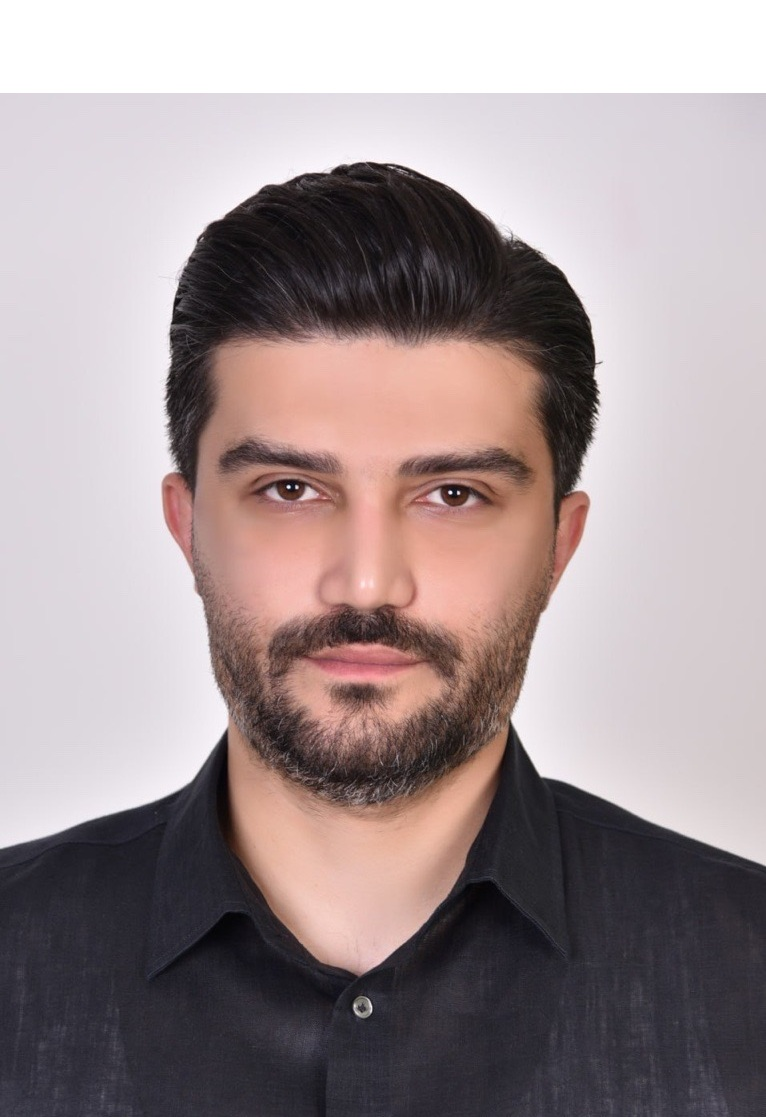
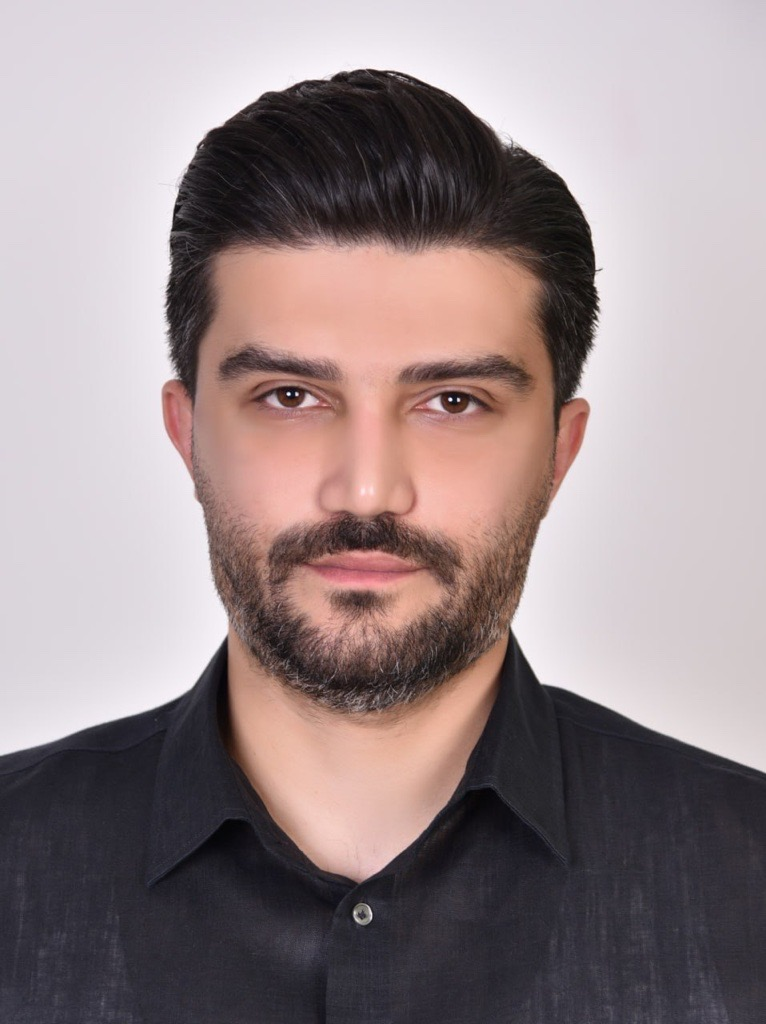
Add files via upload

diff --git a/events/revive-technical-workshop.html b/events/revive-technical-workshop.html
@@ -1,0 +1,137 @@
+<!DOCTYPE html>
+<html lang="en">
+<head>
+<meta charset="UTF-8">
+<meta name="viewport" content="width=device-width, initial-scale=1.0">
+<title>REVIVE Technical Workshop &mdash; Bridges to the Future</title>
+<meta name="description" content="Report on the REVIVE Technical Workshop, held on 23 September 2026 at the University of Southampton: keynotes, technical talks and programme.">
+<link rel="preconnect" href="https://fonts.googleapis.com">
+<link rel="preconnect" href="https://fonts.gstatic.com" crossorigin>
+<link href="https://fonts.googleapis.com/css2?family=IBM+Plex+Sans:wght@400;500;600;700&family=IBM+Plex+Serif:wght@400;500;600&family=IBM+Plex+Mono:wght@400;500;600&display=swap" rel="stylesheet">
+<link rel="stylesheet" href="../assets/css/style.css">
+</head>
+<body>
+<header class="site">
+  <div class="navbar">
+    <a class="brand" href="../index.html">
+      <img class="logo-img" src="../assets/images/logo.png" alt="Bridges to the Future logo" onerror="this.style.display='none'">
+      <span class="brandtext">Bridges to the Future <small>B2F</small></span>
+    </a>
+    <input type="checkbox" id="nav-toggle">
+    <label class="burger" for="nav-toggle"><span></span><span></span><span></span></label>
+    <nav class="links">
+      <a href="../index.html">Home</a>
+      <a href="../about.html">About</a>
+      <a href="../news.html" aria-current="page">News</a>
+      <a href="../projects.html">Research</a>
+      <a href="../people.html">People</a>
+      <a href="../publications.html">Publications</a>
+      <a href="../contact.html">Contact</a>
+    </nav>
+  </div>
+</header>
+
+<section class="pagehero">
+  <div class="wrap">
+    <p class="eyebrow">Workshop &nbsp;&middot;&nbsp; REVIVE project</p>
+    <h1>REVIVE Technical Workshop</h1>
+    <p>Researchers, infrastructure owners and industry partners on assessing, monitoring and extending the life of ageing infrastructure.</p>
+    <p class="proj-meta-row"><span>23 September 2026</span><span>8:30 &ndash; 15:30</span><span>Hartley Suite, University of Southampton</span></p>
+  </div>
+</section>
+<section>
+  <div class="wrap">
+    <p style="margin-bottom:40px;"><a class="back-link" href="../news.html#e01">&larr; Back to news &amp; events</a></p>
+    <figure class="event-figure">
+      <img src="../assets/images/events/e01-revive-workshop.jpg" alt="REVIVE: Non-destructive evaluation and service life extension of vulnerable reinforced concrete infrastructure" loading="lazy">
+    </figure>
+    <div class="profile-section">
+      <h2>About the workshop</h2>
+      <p>The REVIVE Technical Workshop took place on 23 September 2026 at the University of Southampton, hosted by Civil, Maritime and Environmental Engineering (CMEE) and organised by <a href="../people/mehdi-kashani.html">Dr Mehdi Kashani</a>. It was held as part of REVIVE (Non-destructive Evaluation and Service Life Extension of Vulnerable Reinforced Concrete Infrastructure), a Horizon Europe MSCA Staff Exchanges project coordinated by Dr Kashani and funded by the European Union.</p>
+      <p>The day brought together researchers, infrastructure owners and industry practitioners to bridge the gap between academic research and practical infrastructure management. After a welcome from the Head of CMEE, Prof Yannis Ieropoulos, and an introduction to REVIVE, three keynotes set the scene from the owner and consultant perspective: Mr Tim Kersley (Network Rail) on improved resilience by unlocking hidden truths, Mr Colin George (National Highways) on the challenges of managing ageing highway structures, and Dr Chris Mundell (AtkinsR&eacute;alis) on advances in non-destructive testing for bridges with hidden critical elements, drawing on findings from the National Highways Structures Moonshot.</p>
+      <p>The technical sessions that followed covered UKCRIC, the assessment of transfer slabs for shear, distributed optical fibre sensing for damage assessment of ageing RC structures, Bayesian approaches to damage diagnosis and structural health monitoring, satellite-based monitoring of existing bridges, data-driven bridge evaluation, smart tape for structural health monitoring, and real-time damage localisation using modal curvatures and machine learning. The day closed with remarks from Dr Kashani and tours of the lab.</p>
+      <p>Key themes: non-destructive evaluation (NDE) and structural health monitoring (SHM); artificial intelligence, data analytics and digital twins; infrastructure asset management and service life prediction.</p>
+    </div>
+    <div class="profile-section">
+      <h2>Programme</h2>
+      <ul class="programme">
+      <li class="pause"><div class="time">8:30 &ndash; 9:00</div><div class="what">Arrival and registration</div><div class="who"></div></li>
+      <li><div class="time">9:00 &ndash; 9:15</div><div class="what">Welcome and workshop introduction by Head of CMEE</div><div class="who"><strong>Prof Yannis Ieropoulos</strong>University of Southampton</div></li>
+      <li><div class="time">9:15 &ndash; 9:30</div><div class="what">Introduction to REVIVE and purpose of the workshop</div><div class="who"><strong><a href="../people/mehdi-kashani.html">Dr Mehdi Kashani</a></strong>University of Southampton</div></li>
+      <li class="keynote"><div class="time">9:30 &ndash; 10:00</div><div class="what"><span class="kn">Keynote</span>Improved resilience by unlocking hidden truths</div><div class="who"><strong>Mr Tim Kersley</strong>Network Rail</div></li>
+      <li class="keynote"><div class="time">10:00 &ndash; 10:30</div><div class="what"><span class="kn">Keynote</span>Challenges in the management of ageing highway structures</div><div class="who"><strong>Mr Colin George</strong>National Highways</div></li>
+      <li class="keynote"><div class="time">10:30 &ndash; 11:00</div><div class="what"><span class="kn">Keynote</span>Advancements in NDT for bridges with hidden critical elements &ndash; Findings from National Highways Structures Moonshot</div><div class="who"><strong>Dr Chris Mundell</strong>AtkinsR&eacute;alis</div></li>
+      <li class="pause"><div class="time">11:00 &ndash; 11:30</div><div class="what">Coffee break</div><div class="who"></div></li>
+      <li><div class="time">11:30 &ndash; 11:50</div><div class="what">UK Collaboratorium for Research on Infrastructure and Cities (UKCRIC)</div><div class="who"><strong>Prof William Powrie</strong>University of Southampton</div></li>
+      <li><div class="time">11:50 &ndash; 12:10</div><div class="what">Challenges in the structural assessment of transfer slabs for shear</div><div class="who"><strong>Prof Robert Vollum</strong>Imperial College London</div></li>
+      <li><div class="time">12:10 &ndash; 12:30</div><div class="what">Application of high-resolution distributed optical fibre in damage assessment of ageing RC structures</div><div class="who"><strong><a href="../people/saba-ghassemi.html">Ms Saba Ghassemi</a></strong>University of Southampton</div></li>
+      <li><div class="time">12:30 &ndash; 12:50</div><div class="what">Reliability assessment of damage diagnosis with Bayesian updating: current status and future directions</div><div class="who"><strong>Dr Francesca Marsili</strong>Helmut-Schmidt University</div></li>
+      <li><div class="time">12:50 &ndash; 13:10</div><div class="what">Structural monitoring of existing bridges via satellite-based techniques</div><div class="who"><strong>Dr Fabio Di Carlo</strong>Universit&agrave; di Roma Tor Vergata</div></li>
+      <li class="pause"><div class="time">13:10 &ndash; 14:10</div><div class="what">Lunch</div><div class="who"></div></li>
+      <li><div class="time">14:10 &ndash; 14:30</div><div class="what">Structural health monitoring with Bayesian inversion and probabilistic models: tools, limitations, and challenges</div><div class="who"><strong>Dr Noemi Friedman</strong>SZTAKI</div></li>
+      <li><div class="time">14:30 &ndash; 14:50</div><div class="what">Data-driven evaluation of existing bridges: methods and applications at ZAG</div><div class="who"><strong>Dr Andrej An&zcaron;lin</strong>ZAG</div></li>
+      <li><div class="time">14:50 &ndash; 15:10</div><div class="what">Smart tape for structural health monitoring</div><div class="who"><strong>Dr Meisam Jalalvand</strong>University of Southampton</div></li>
+      <li><div class="time">15:10 &ndash; 15:30</div><div class="what">Real-time structural damage localisation using modal curvatures based on a machine learning algorithm</div><div class="who"><strong><a href="../people/masoud-mohandes.html">Dr Masoud Mohandes</a></strong>University of Southampton</div></li>
+      <li><div class="time">15:30</div><div class="what">Closing remarks and lab tours</div><div class="who"><strong><a href="../people/mehdi-kashani.html">Dr Mehdi Kashani</a></strong></div></li>
+      </ul>
+    </div>
+    <div class="profile-section">
+      <h2>REVIVE consortium</h2>
+      <ul class="partner-list"><li>University of Bristol</li><li>TU Delft</li><li>University of Ljubljana</li><li>Universit&agrave; di Roma Tor Vergata</li><li>Helmut Schmidt University</li><li>HUN-REN SZTAKI</li><li>ZAG</li><li>SVTI ASIT</li><li>AtkinsR&eacute;alis</li><li>TIMEZYX Digital Twin</li><li>SHMnext</li></ul>
+      <p>REVIVE is funded by the European Union under Horizon Europe (MSCA Staff Exchanges). <a href="https://cordis.europa.eu/project/id/101299364" target="_blank" rel="noopener" style="color:var(--rust);">Project record on CORDIS</a></p>
+    </div>
+  </div>
+</section>
+<footer>
+  <div class="wrap footer-grid">
+    <div class="footer-col footer-brand">
+      <div class="footer-logos">
+        <span class="footer-logo">
+          <img src="../assets/images/logos/southampton-logo.png" alt="University of Southampton" onerror="this.style.display='none'; this.nextElementSibling.style.display='inline-flex';">
+          <span class="footer-logo-fallback">University of Southampton</span>
+        </span>
+        <span class="footer-logo">
+          <img src="../assets/images/logo.png" alt="Bridges to the Future" onerror="this.style.display='none'; this.nextElementSibling.style.display='inline-flex';">
+          <span class="footer-logo-fallback">Bridges to the Future</span>
+        </span>
+      </div>
+      <p>Advancing the resilience and service life of ageing bridges, railways and civil infrastructure.</p>
+    </div>
+    <div class="footer-col">
+      <h4>Explore</h4>
+      <nav class="footer-nav">
+        <a href="../index.html">Home</a>
+        <a href="../about.html">About</a>
+        <a href="../news.html">News</a>
+        <a href="../projects.html">Research</a>
+        <a href="../people.html">People</a>
+        <a href="../publications.html">Publications</a>
+        <a href="../contact.html">Contact</a>
+      </nav>
+    </div>
+    <div class="footer-col">
+      <h4>Visit</h4>
+      <address>
+        National Infrastructure Laboratory<br>
+        Boldrewood Innovation Campus<br>
+        Burgess Road<br>
+        Southampton SO16 7QF<br>
+        United Kingdom
+      </address>
+    </div>
+    <div class="footer-col">
+      <h4>Contact</h4>
+      <div class="footer-contact">
+        <a href="mailto:Mehdi.Kashani@soton.ac.uk">Mehdi.Kashani@soton.ac.uk</a>
+        <a href="../contact.html">Get in touch &rarr;</a>
+        <span>bridges2f.com</span>
+      </div>
+    </div>
+  </div>
+  <div class="wrap footer-bottom">
+    <span>&copy; Bridges to the Future &middot; University of Southampton</span>
+    <span>National Infrastructure Laboratory</span>
+  </div>
+</footer>
+</body>
+</html>

diff --git a/news.html b/news.html
@@ -44,18 +44,18 @@
       <div class="news-item" id="e01">
         <div class="news-visible">
           <div class="photo-frame ">
-          <div class="avatar-fallback">UPCOMING WORKSHOP</div>
+          <div class="avatar-fallback">WORKSHOP</div>
           <img src="assets/images/events/e01-revive-workshop.jpg" alt="REVIVE Technical Workshop" loading="lazy" onerror="this.style.display='none'">
         </div>
           <div class="news-text">
-            <span class="tag rust">Upcoming workshop</span>
+            <span class="tag rust">Workshop</span>
             <h3>REVIVE Technical Workshop</h3>
-            <span class="meta">23 September &middot; Hartley Suite, University of Southampton</span>
+            <span class="meta">23 September 2026 &middot; Hartley Suite, University of Southampton</span>
           </div>
         </div>
         <details>
           <summary>Read more <span class="arrow">&#9656;</span></summary>
-          <div class="news-desc"><p>Bringing together researchers and industry to advance assessment, monitoring, and service life extension of infrastructure. Organised by Dr Mohammad Mehdi Kashani as part of the Horizon Europe MSCA-funded REVIVE project, this day-long workshop bridges the gap between academic research and practical infrastructure management, with sessions from consortium partners, infrastructure owners and industry representatives.<br><br>Key topics: Non-Destructive Evaluation (NDE) and Structural Health Monitoring (SHM); Artificial Intelligence, Data Analytics and Digital Twins; Infrastructure Asset Management and Service Life Prediction.</p><a class="read" href="https://www.eventbrite.co.uk/e/revive-technical-workshop-tickets-1992409191526" target="_blank" rel="noopener">Register on Eventbrite &rarr;</a></div>
+          <div class="news-desc"><p>The REVIVE Technical Workshop brought together researchers, infrastructure owners and industry representatives to advance the assessment, monitoring and service life extension of infrastructure. Organised by Dr Mohammad Mehdi Kashani as part of the Horizon Europe MSCA-funded REVIVE project, the day-long event bridged academic research and practical infrastructure management, with keynotes from Network Rail, National Highways and AtkinsR&eacute;alis, and technical talks from consortium partners and invited speakers.<br><br>Key topics: Non-Destructive Evaluation (NDE) and Structural Health Monitoring (SHM); Artificial Intelligence, Data Analytics and Digital Twins; Infrastructure Asset Management and Service Life Prediction.</p><a class="read" href="events/revive-technical-workshop.html">Event page &rarr;</a></div>
         </details>
       </div><div class="news-item" id="e02">
         <div class="news-visible">

diff --git a/assets/css/style.css b/assets/css/style.css
@@ -385,3 +385,24 @@ figure.gphoto figcaption{font-family:var(--font-mono); font-size:12px; color:var
 .photo-gallery .photo-frame{width:100%; aspect-ratio:4/3; border-radius:2px;}
 .photo-gallery figcaption{font-family:var(--font-mono); font-size:12px; color:var(--steel); margin-top:8px; line-height:1.5;}
 .contrib-line{font-family:var(--font-mono); font-size:12.5px; color:#cdd8db; text-transform:uppercase; letter-spacing:.03em; margin-top:6px;}
+
+/* ---------- EVENT PAGE ---------- */
+.event-figure{margin:0 0 48px; background:#fff; border:1px solid var(--line);}
+.event-figure img{display:block; width:100%; height:auto;}
+.programme{list-style:none; margin:0; padding:0; border-top:1px solid var(--line);}
+.programme li{display:grid; grid-template-columns:128px 1fr 250px; gap:6px 28px; padding:15px 0; border-bottom:1px solid var(--line); align-items:baseline;}
+.programme .time{font-family:var(--font-mono); font-size:13px; color:var(--steel);}
+.programme .what{font-size:15.5px; color:var(--ink); line-height:1.45;}
+.programme .who{font-size:14px; color:#4a5256; line-height:1.4;}
+.programme .who strong{display:block; font-family:var(--font-display); font-weight:600; color:var(--steel-deep); font-size:14.5px;}
+.programme .who a{color:inherit;}
+.programme li.keynote .what{font-family:var(--font-display); font-weight:600; color:var(--steel-deep);}
+.programme li.keynote .kn{display:block; font-family:var(--font-mono); font-weight:500; font-size:11.5px; color:var(--rust); letter-spacing:.04em; margin-bottom:3px;}
+.programme li.pause{background:rgba(22,38,47,.045); padding-left:14px; padding-right:14px;}
+.programme li.pause .what{color:var(--steel); font-style:italic;}
+.partner-list{list-style:none; margin:0 0 18px; padding:0; display:flex; flex-wrap:wrap; gap:8px 10px;}
+.partner-list li{border:1px solid var(--line); background:var(--paper); padding:7px 13px; font-size:14px; color:var(--steel-deep);}
+@media (max-width:760px){
+  .programme li{grid-template-columns:1fr; gap:4px;}
+  .programme li.pause{padding-left:12px; padding-right:12px;}
+}

diff --git a/index.html b/index.html
@@ -122,11 +122,11 @@
           <img src="assets/images/events/e01-revive-workshop.jpg" alt="REVIVE Technical Workshop" loading="lazy" onerror="this.style.display='none'">
         </div>
         <div class="card-body">
-          <span class="tag rust">Upcoming workshop</span>
+          <span class="tag rust">Workshop</span>
           <h3>REVIVE Technical Workshop</h3>
-          <p class="meta">23 September &middot; University of Southampton</p>
-          <p>A day-long workshop on non-destructive evaluation, structural health monitoring and digital twins for ageing infrastructure.</p>
-          <a class="read" href="news.html#e01">Read more &rarr;</a>
+          <p class="meta">23 September 2026 &middot; University of Southampton</p>
+          <p>A day-long workshop on non-destructive evaluation, structural health monitoring and digital twins for ageing infrastructure, with keynotes from Network Rail, National Highways and AtkinsR&eacute;alis.</p>
+          <a class="read" href="events/revive-technical-workshop.html">Read more &rarr;</a>
         </div>
       </div>
       <div class="card">
